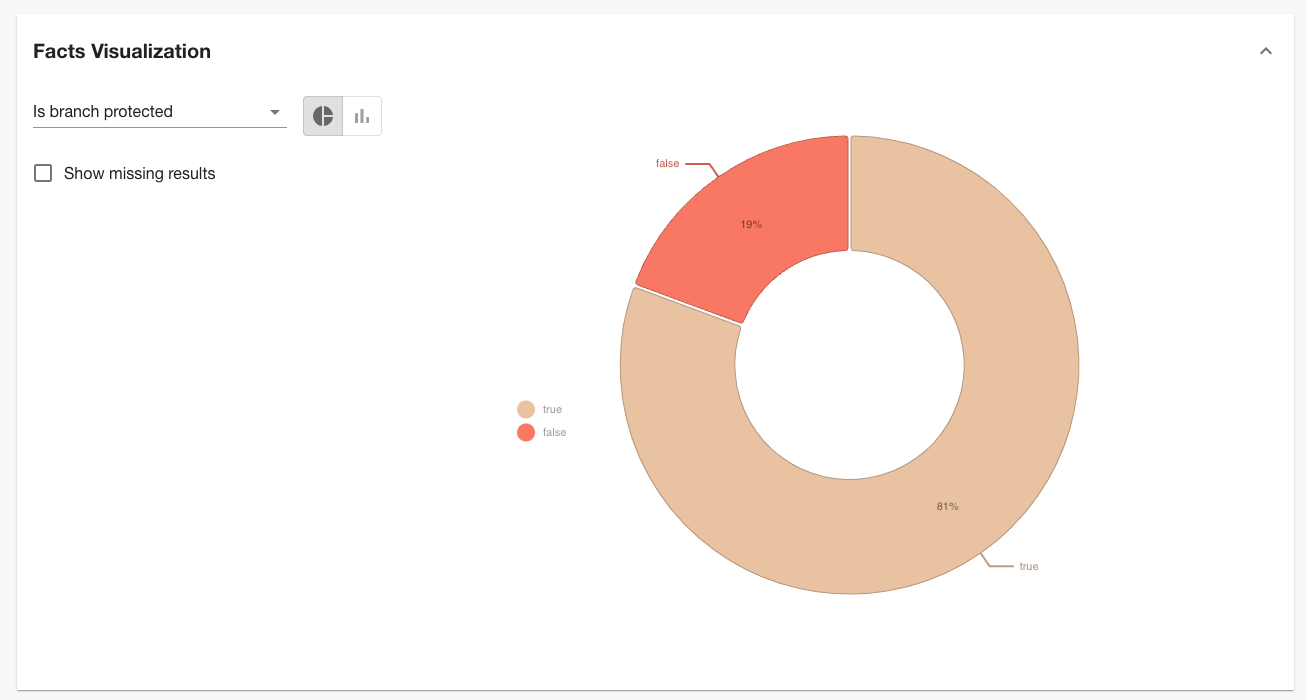
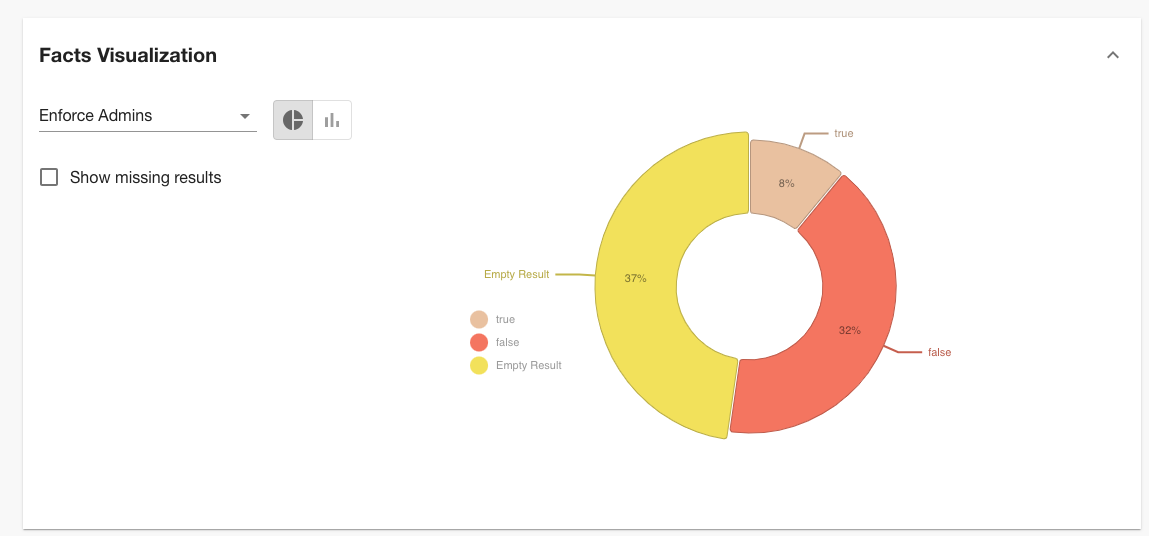
update docs for new builtin data source

diff --git a/content/docs/tech-insights/enforce-branch-protection/index.md b/content/docs/tech-insights/enforce-branch-protection/index.md
@@ -6,6 +6,7 @@ description: How to enforce GitHub branch protection on production software with
 
 Branch protection can bring an extra layer of security to your organization by ensuring that code must be reviewed and tested before being merged. With Tech Insights, you can ensure teams are using branch protection on their software.
 
+Roadie automatically collects this information and you can view reports or create checks about that data.
 In this tutorial, we’re going to:
 
 1. Automatically scan Components in the Backstage catalog and record whether or not features like branch protection and required reviews are turned on or off for their GitHub repositories.
@@ -17,65 +18,11 @@ As we go through this process, you’ll learn how to create Data Sources that in
 
 1. You must have [installed the Roadie GitHub App](../../getting-started/install-github-app/).
 
-## Create a branch protection Data Source
-
-1. Visit Tech Insights and click into the Data Sources tab. Click the ADD DATA SOURCE button to create a new data source. 
-
-    ![a button on a web interface](../track-docker-base-image-migration/add-ds-button.png)
-
-2. Name the Data Source “GitHub branch protection” and give it the description “Detects if branch protection is turned on for the main branch of a repository.”
-    
-    ![about.png](./about.png)
-    
-3. In the Data Provider section, select the **"HTTP via Integration"** type and enter the Path Extension
-    
-    ```
-    repos/{{ metadata.annotations["github.com/project-slug"] }}/branches/main/protection
-    ```
-    
-4. In the input labelled “Select Entity to test data source against”, choose an Entity in the catalog that has the `github.com/project-slug` annotation set, and has branch protection turned on for the repository the annotation points at. Click the VIEW button and you should see a response from the GitHub API.
-    
-    ![github-response.png](./github-response.png)
-    
-5. In the field extraction box, fill out the inputs with the following values.
-    
-    
-    | Fact name | JSONata query | Type |
-    | --- | --- | --- |
-    | Is branch protected | $exists(url) | Boolean |
-    | Enforce admins enabled | enforce_admins.enabled | Boolean |
-    | Linear history required enabled | required_linear_history.enabled | Boolean |
-    | Allow force pushes enabled | allow_force_pushes.enabled | Boolean |
-    | Allow deletions enabled | allow_deletions.enabled | Boolean |
-    | Block creations enabled | block_creations.enabled | Boolean |
-    | Required signatures enabled | required_signatures.enabled | Boolean |
-    | Dismiss stale reviews | required_pull_request_reviews.dismiss_stale_reviews | Boolean |
-    | Require code owner reviews | required_pull_request_reviews.require_code_owner_reviews | Boolean |
-    | Require last push approval | required_pull_request_reviews.require_last_push_approval | Boolean |
-    | Required approving review count | required_pull_request_reviews.required_approving_review_count | Integer |
-    | Strict required status checks | required_status_checks.strict | Boolean |
-
-6. Click the CHECK FACTS button and you should see that the facts are successfully extracted from the test response.
-    
-    ![extraction.png](./extraction.png)
-    
-7. In the “Applies to” section, set the following filters:
-    
-    
-    | Type | Component |
-    | --- | --- |
-    | Lifecycle | Production |
-    | Has Annotation | github.com/project-slug |
-
-8. Save the Data Source. After a minute or two, you should see results start to come in.
-    
-    ![ds-results.png](./ds-results.png)
-    
-
 ## Visualise the percentage of Components with branch protection
 
-Roadie Data Sources comes with a built-in visualization panel which lets us get an overview of the Dockerfile base image versions being used. When viewing a Data Source, expand the “Facts visualization” section to see it.
+In order to view the data, you can click Tech Insights > Data Sources > GitHub Settings Data Source
 
+You can then expand the "Fact Visualization" section and select the item that you want to view across your GitHub repositories.
 ![viz.png](./viz.png)
 
 This chart tells us that 81% of Components have branch protection turned on in their repositories.

diff --git a/content/docs/tech-insights/track-codeowners-usage/index.md b/content/docs/tech-insights/track-codeowners-usage/index.md
@@ -12,56 +12,7 @@ In this tutorial, we’re going to create a Tech Insights check that tracks adop
 
 1. You must have [intalled the Roadie GitHub App](../../getting-started/install-github-app/).
 
-## Create a CODEOWNERS Data Source
-
-
-
-1. Visit Tech Insights and click into the Data Sources tab. Click the ADD DATA SOURCE button to create a new data source.
-
-    ![a button on a web interface](../track-docker-base-image-migration/add-ds-button.png)
-
-2. Name the Data Source “CODEOWNERS” and give it the description “Detects usage and validity of the codeowners file in a repo.”
-    
-    ![about.png](./about.png)
-    
-3. In the Data Provider section, select the **"HTTP via Integration"** type and enter the Path Extension
-    
-    ```
-    repos/{{ metadata.annotations["github.com/project-slug"] }}/codeowners/errors
-    ```
-    
-4. In the input labelled “Select Entity to test data source against”, choose an Entity in the catalog that has the `github.com/project-slug` annotation set, and has a valid CODEOWNERS file the repository the annotation points at. Click the VIEW button and you should see a response from the GitHub API.
-    
-    ![response.png](./response.png)
-    
-5. In the field extraction box, fill out the inputs with the following values.
-    
-    
-    | Fact name | JSONata query | Type |
-    | --- | --- | --- |
-    | Error count | $count(errors) | Integer |
-    | Has errors | $count(errors) != 0 | Boolean |
-    | Uses codeowners | $exists(errors) | Boolean |
-
-6. Click the CHECK FACTS button and you should see that the facts are successfully extracted from the test response.
-    
-    ![extraction.png](./extraction.png)
-    
-7. In the “Applies to” section, set the following filters:
-    
-    | Filter name | Value |
-    | --- | --- |
-    | Type | Component |
-    | Has Annotation | github.com/project-slug |
-
-8. Save the Data Source. After a minute or two, you should see results come in.
-    
-    ![results.png](./results.png)
-    
-
 ## Create a CODEOWNERS check
-
-Now that we can gather information about how CODEOWNERS is being used, we can write a check to figure out which components are using it correctly.
 
 1. Visit Tech Insights and click into the Checks tab. Click the ADD CHECK button to create a new check.
 
@@ -78,7 +29,7 @@ Now that we can gather information about how CODEOWNERS is being used, we can wr
     
     | Input name | Value |
     | --- | --- |
-    | Data Source | CODEOWNERS |
+    | Data Source | GitHub Settings Data Source |
     | Fact | Uses codeowners |
     | Fact operator | Is True |
 
@@ -87,15 +38,15 @@ Now that we can gather information about how CODEOWNERS is being used, we can wr
     
     | Input name | Value |
     | --- | --- |
-    | Data Source | CODEOWNERS |
-    | Fact | Has errors |
+    | Data Source | GitHub Settings Data Source |
+    | Fact | Codeowners Has Errors |
     | Fact operator | Is False |
     
     We now have a set of conditions which pass when a Component has a valid CODEOWNERS file, and fail otherwise.
     
     You can use the “DRY RUN” button to test these conditions against some Components in your catalog, ensure they operate the way you would expect, and return the correct pass or fail result.
     
-    ![compoind-conditions.png](./compoind-conditions.png)
+    ![compound-conditions.png](compound-conditions.png)
     
 7. Use the filters to target this check at production Components. You likely don't want to require random experimental repos to have CODEOWNERS files.
 8. Save the check by clicking “SAVE”. If you’re not quite ready to go live yet, you can use the “SAVE AS DRAFT” button to save the check but ensure only admins can see it.
